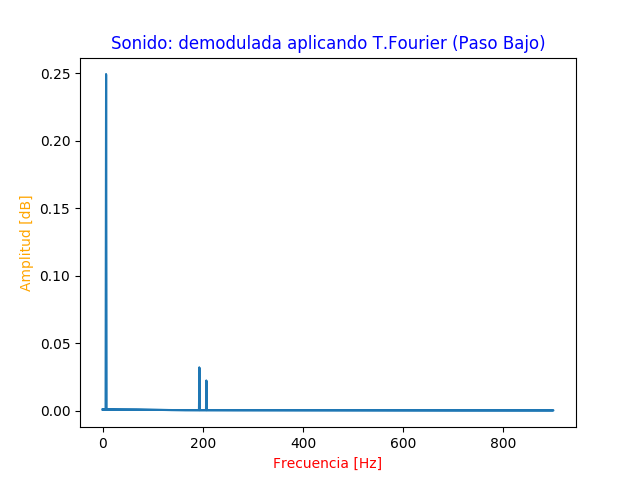
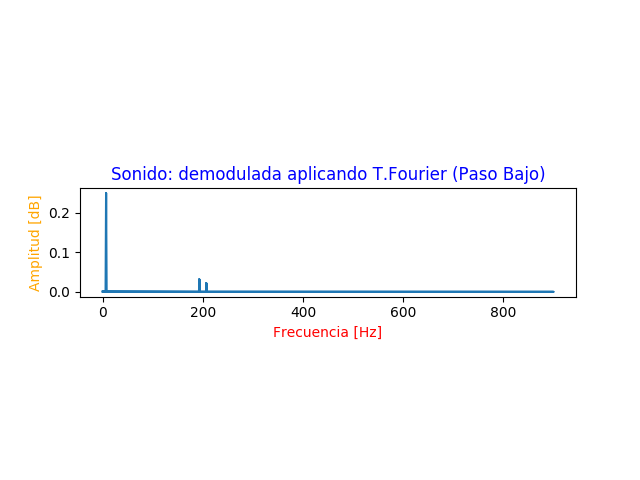
adding modulations AM and FM, although modulation with real audio is missing

diff --git a/Models/graphic.py b/Models/graphic.py
@@ -30,7 +30,7 @@ class Graphic:
         plt.plot(xdata, ydata)#, "*-")
         plt.savefig( os.getcwd() + "/Salida/" + title + "_" + str(low_cutoff) + "_" + str(order) + ".png")
         print("Aca")
-        plt.show()
+        #plt.show()
 
 
     #//////////////////////////////////////////////////////////////////////////////////////////////////////////////////////////////////////////////////////////////////////////
@@ -62,7 +62,7 @@ class Graphic:
         # Funcion que retorna los resultados aplicando fourier y crea una matriz con el resultado
         fftFrequency = np.fft.fftfreq(sample_length, 1 / samplingRate)
         self.makeGraphic("Sonido: " + audioName + " aplicando T.Fourier", "Frecuencia [Hz]", fftFrequency, "Amplitud [dB]", abs(new_data),low_cutoff,order)
-        plt.show()
+        #plt.show()
         return new_data, fft(data)
 
     # /////////////////////////////////////////////////////////////////////////////////////////////////////////////////////////////////////////////////////////////////////////
@@ -168,8 +168,8 @@ class Graphic:
         originalAudio.informationNumpyFourier, fourierT = self.frequencyGraphic(originalAudio.data_array,originalAudio.sampling_rate,originalAudio.audio_name,low_cutoff,order)
         plt.subplot(313)
         filter = Filter(low_cutoff,8,order)
-        filter.butterBandpass(low_cutoff,10000,originalAudio.sampling_rate,order)
-        #self.lowpassFilteredGraphic(originalAudio, low_cutoff, order)
+        #filter.butterBandpass(low_cutoff,10000,originalAudio.sampling_rate,order)
+        self.lowpassFilteredGraphic(originalAudio, low_cutoff, order)
         plt.tight_layout()
         plt.savefig(os.getcwd() + "/Salida/" + title + "_" + str(low_cutoff) + "_" + str(order) + ".png")
         plt.show()
@@ -227,7 +227,7 @@ class Graphic:
 
     def generateGraphics4 (self, cos,cos2,result,time):
         print("\n")
-        print("Realizando el grafico de conjunto numero 3")
+        print("Realizando el grafico de conjunto numero 4")
         print("El cual contiene los grafico del audio completo, espectrograma (aplicado el filtro) y audio regenerado")
         print("\n")
         plt.figure(1)
@@ -246,7 +246,7 @@ class Graphic:
 
     def generateGraphics5 (self, cos, f, cos2, fc, result, time):
         print("\n")
-        print("Realizando el grafico de conjunto numero 3")
+        print("Realizando el grafico de conjunto numero 5")
         print("El cual contiene los grafico del audio completo, espectrograma (aplicado el filtro) y audio regenerado")
         print("\n")
         plt.figure(1)
@@ -263,7 +263,60 @@ class Graphic:
         #plt.savefig(os.getcwd() + "/Salida/" + title + "_" + str(low_cutoff) + "_" + str(order) +".png")
         plt.show()
 
-    # /////////////////////////////////////////////////////////////////////////////////////////////////////////////////////////////////////////////////////////////////////////
+    def generateGraphics6 (self, modulation, audio):
+        print("\n")
+        print("Realizando el grafico de conjunto numero 6")
+        print("El cual contiene los grafico del audio completo, espectrograma (aplicado el filtro) y audio regenerado")
+        print("\n")
+        graphic = Graphic()
+        plt.figure(1)
+        plt.subplot(311)
+        p1 = plt.plot(linewidth = 2)
+        graphic.frequencyGraphic(modulation.function4, modulation.freqSampling, "demodulada", audio.filter.low_cutoff, audio.filter.order)
+        plt.subplot(312)
+        p2 = plt.plot(linewidth = 2)
+        newdata, fft = graphic.lowpassFilteredGraphic(audio, audio.filter.low_cutoff, audio.filter.order)
+        plt.subplot(313)
+        p3 = plt.plot(linewidth = 2)
+        graphic.inverseGraphic(modulation.freqSampling, 2 * fft, "demodulacion", audio.filter.low_cutoff, audio.filter.order)
+        plt.tight_layout()
+        #plt.savefig(os.getcwd() + "/Salida/" + title + "_" + str(low_cutoff) + "_" + str(order) +".png")
+        plt.show()
+
+    def generateGraphics7 (self, modulation):
+        print("\n")
+        print("Realizando el grafico de conjunto numero 7")
+        print("El cual contiene los grafico del audio completo, espectrograma (aplicado el filtro) y audio regenerado")
+        print("\n")
+        graphic = Graphic()
+        plt.figure(1)
+        plt.subplot(211)
+        p1 = plt.plot(linewidth = 2)
+        self.makeGraphic("Moduladora", "Tiempo", modulation.time, "Coseno", modulation.function1, 5, 5)
+        plt.subplot(212)
+        p2 = plt.plot(linewidth = 2)
+        self.makeGraphic("Modulacion FM", "Tiempo", modulation.time, "Coseno", modulation.function3, 5, 5)
+        plt.tight_layout()
+        #plt.savefig(os.getcwd() + "/Salida/" + title + "_" + str(low_cutoff) + "_" + str(order) +".png")
+        plt.show()
+
+    def generateGraphics8 (self, modulation):
+        print("\n")
+        print("Realizando el grafico de conjunto numero 8")
+        print("El cual contiene los grafico del audio completo, espectrograma (aplicado el filtro) y audio regenerado")
+        print("\n")
+        plt.figure(1)
+        plt.subplot(211)
+        p1 = plt.plot(linewidth = 2)
+        trans1 = self.frequencyGraphic(modulation.function1, modulation.freqSampling, "Moduladora", 4, 3)
+        plt.subplot(212)
+        p2 = plt.plot(linewidth = 2)
+        trans2 = self.frequencyGraphic(modulation.function3, modulation.freqSampling, "Modulacion FM", 4, 3)
+        plt.tight_layout()
+        #plt.savefig(os.getcwd() + "/Salida/" + title + "_" + str(low_cutoff) + "_" + str(order) +".png")
+        plt.show()
+
+# /////////////////////////////////////////////////////////////////////////////////////////////////////////////////////////////////////////////////////////////////////////
     # - NAME: SingleGraphics
     # - DESCRIPTION: Genera todos los graficos de manera separada
     # - PARAMS: Clase audio, Frecuencia de corte de frecuencias bajas, Frecuencia de corte de frecuencias altas, Orden del polinomio

diff --git a/Models/modulation.py b/Models/modulation.py
@@ -13,9 +13,10 @@ class Modulation:
     freq1 = 0
     freq2 = 0
     time = []
-    function1 = 0
-    function2 = 0
-    function3 = 0
+    function1 = []
+    function2 = []
+    function3 = []
+    function4 = []
     freqSampling = 0
 
     ## - FUNCTIONS - ##
@@ -41,18 +42,21 @@ class Modulation:
         graphic.generateGraphics4(modulation.function1, modulation.function2, modulation.function3, modulation.time)
         graphic.generateGraphics5(modulation.function1, modulation.freqSampling, modulation.function2, modulation.freqSampling, modulation.function3, modulation.time)
 
+        return modulation
+
     def demodulatorAMCos(self, modulation):
 
         graphic = Graphic()
         dataCarrier = modulation.function3 * modulation.function2
         print(dataCarrier)
-        graphic.generateGraphics4(modulation.function1, modulation.function3, dataCarrier,modulation.time)
-        graphic.frequencyGraphic(dataCarrier,modulation.freqSampling,"demodulada",10000,8)
-        audio = Audio(modulation.freqSampling,0,dataCarrier,modulation.time,"demodulada",150,10000,10,modulation.time)
-        newdata, fft = graphic.lowpassFilteredGraphic(audio,150,5)
-        graphic.inverseGraphic(modulation.freqSampling,2*fft,"demodulacion",150,10)
-        #graphic.generateGraphics5(modulation.function1, modulation.freqSampling, modulation.function3,modulation.freqSampling, dataCarrier, modulation.time)
 
+        modulation.function4 = dataCarrier
+        audio = Audio(modulation.freqSampling, 0, dataCarrier, modulation.time, "demodulada", (modulation.freq2 + (modulation.freq2 / 2) ), 0, 8,modulation.time)
+
+        graphic.generateGraphics4(modulation.function1, modulation.function3, dataCarrier, modulation.time)
+        graphic.generateGraphics6(modulation,audio)
+
+        return modulation
 
     def amModulation (self, modulatingSignal, carrierSignalFequency, lowCutoff):
 
@@ -86,22 +90,26 @@ class Modulation:
         return demoduleAM
 
 
-    def fmModulation (self, f, fc, k):
+    def fmModulation (self, modulation, f, fc, k):
 
         graphic = Graphic()
-        modulation = Modulation(f, fc)
         modulation.freqSampling = 18 * fc
 
         modulation.time = np.arange(0, 0.5, 1 / modulation.freqSampling)
 
         modulating_signal = np.cos(2 * np.pi * f * modulation.time)
+        modulation.function1 = modulating_signal
 
-        phase = k * (integrate.cumtrapz(modulating_signal, modulation.time, initial=0))
+        phase = k * (integrate.cumtrapz(modulation.function1, modulation.time, initial=0))
         print(phase)
 
         modulated_signal = np.cos( (2 * np.pi * fc * modulation.time) + phase)
-        plt.plot(modulation.time, modulated_signal, linewidth = 2)
-        plt.show()
+        modulation.function3 = modulated_signal
+
+        graphic.generateGraphics7(modulation)
+        graphic.generateGraphics8(modulation)
+
+        return modulation
 
 
 

diff --git a/Avance1.py b/Avance1.py
@@ -17,6 +17,7 @@ def main():
 def menuPrincipal():
 
     choice = '0'
+    originalAudio = []
 
     while choice != '-1':
         print("\n")
@@ -37,7 +38,7 @@ def menuPrincipal():
             input("Presiona Enter para continuar")
 
         elif choice == "2":
-            digitalCodingAndModulation()
+            digitalCodingAndModulation(originalAudio)
             input("Presiona Enter para continuar")
 
         elif choice == "3":
@@ -128,10 +129,11 @@ def signalAnaysisMenu ():
             print("\n")
             return originalAudio
 
-def digitalCodingAndModulation():
+def digitalCodingAndModulation(originalAudio):
 
     choice = '0'
-    modulation = Modulation(0, 0)
+    modulationAM = Modulation(0, 0)
+    modulationFM = Modulation(0, 0)
 
     while choice != '-1':
         print("\n")
@@ -139,28 +141,24 @@ def digitalCodingAndModulation():
         print("1. Realizar modulacion AM")
         print("2. Realizar modulacion FM")
         print("3. Realizar demodulacion AM")
-        print("4. Realizar demodulacion FM")
-        print("5. Volver")
+        print("4. Volver")
         print("\n")
 
         choice = input("Ingrese opcion a realizar: ")
 
         if choice == "1":
             print("Realizando modulacion AM\n")
-            modulation.amModulationCos(7, 100)
+            modulationAM = modulationAM.amModulationCos(7, 100)
             input("Presiona Enter para continuar")
 
         elif choice == "2":
             print("Realizando modulacion FM")
+            modulationFM = modulationFM.fmModulation(modulationFM, 7, 100, 50)
             input("Presiona Enter para continuar")
 
         elif choice == "3":
-            print("Realizando modulacion FM")
-            modulation.fmModulation(7, 100, 50)
-            input("Presiona Enter para continuar")
-
-        elif choice == "4":
-            print("Realizando demodulacion FM")
+            print("Realizando demodulacion AM")
+            modulationAM = modulationAM.demodulatorAMCos(modulationAM)
             input("Presiona Enter para continuar")
 
         else:
@@ -168,6 +166,7 @@ def digitalCodingAndModulation():
             print("\n")
             print(" Volviendo al menu inicial")
             print("\n")
+            return modulationFM, modulationAM
 
 if __name__ == '__main__':
     main()

diff --git a/Models/audio.py b/Models/audio.py
@@ -3,12 +3,12 @@ from Models.filter import Filter
 class Audio:
 
 ## - ATTRIBUTES - ##
-    sampling_rate = 0
+    sampling_rate = []
     data_array = []
     bandpass_data = 0
-    duration = 0
-    time = 0
-    dimension = 0
+    duration = []
+    time = []
+    dimension = []
     audio_name = ""
     information_numpy_fourier = []
     filter = Filter(0, 0, 0)
